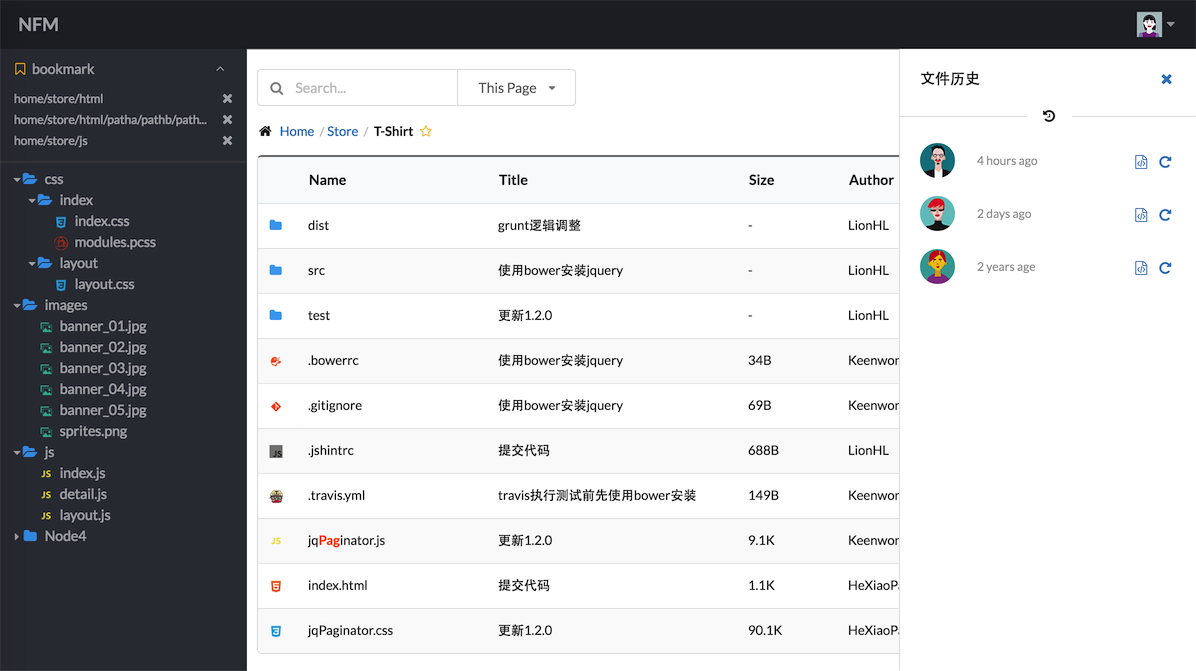
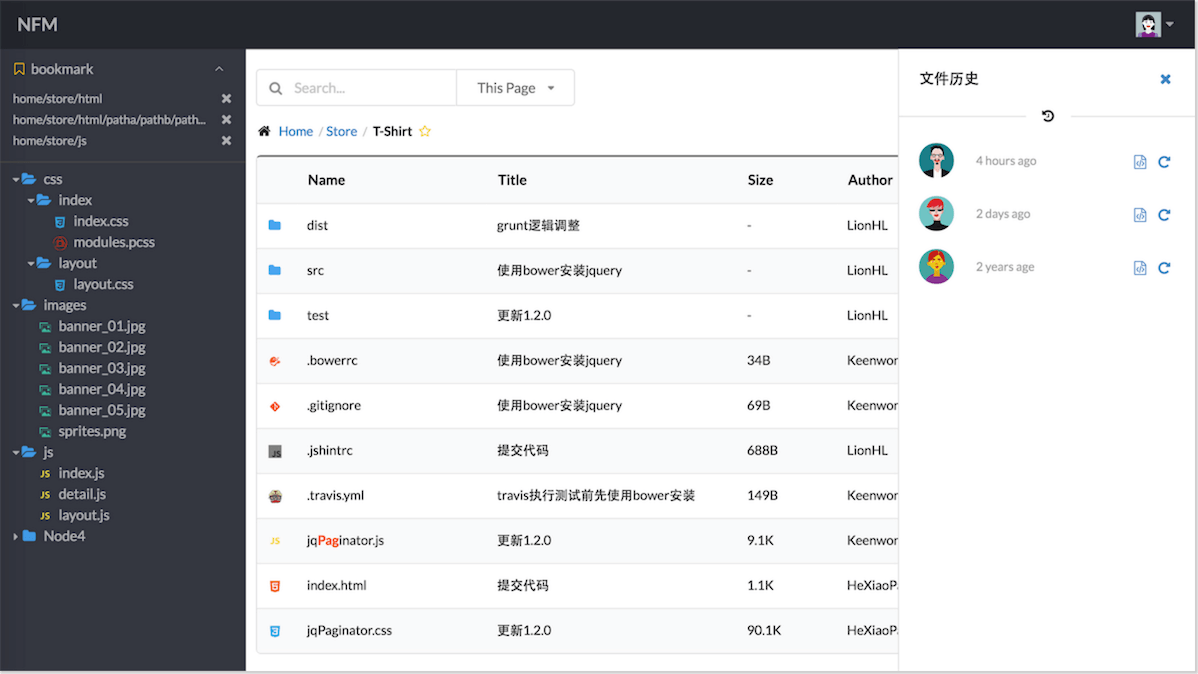
替换截图

diff --git a/README.md b/README.md
@@ -6,7 +6,7 @@
   </a>
   <br>
   <a href="https://raw.githubusercontent.com/nfmteam/nfm-ui/master/.github/screenshots.png">
-    <img src="https://raw.githubusercontent.com/nfmteam/nfm-ui/master/.github/screenshots.png" style="box-shadow: 2px 2px 2px 1px rgba(0, 0, 0, 0.2)">
+    <img src="https://raw.githubusercontent.com/nfmteam/nfm-ui/master/.github/screenshots.png">
   </a>
 </p>
 
